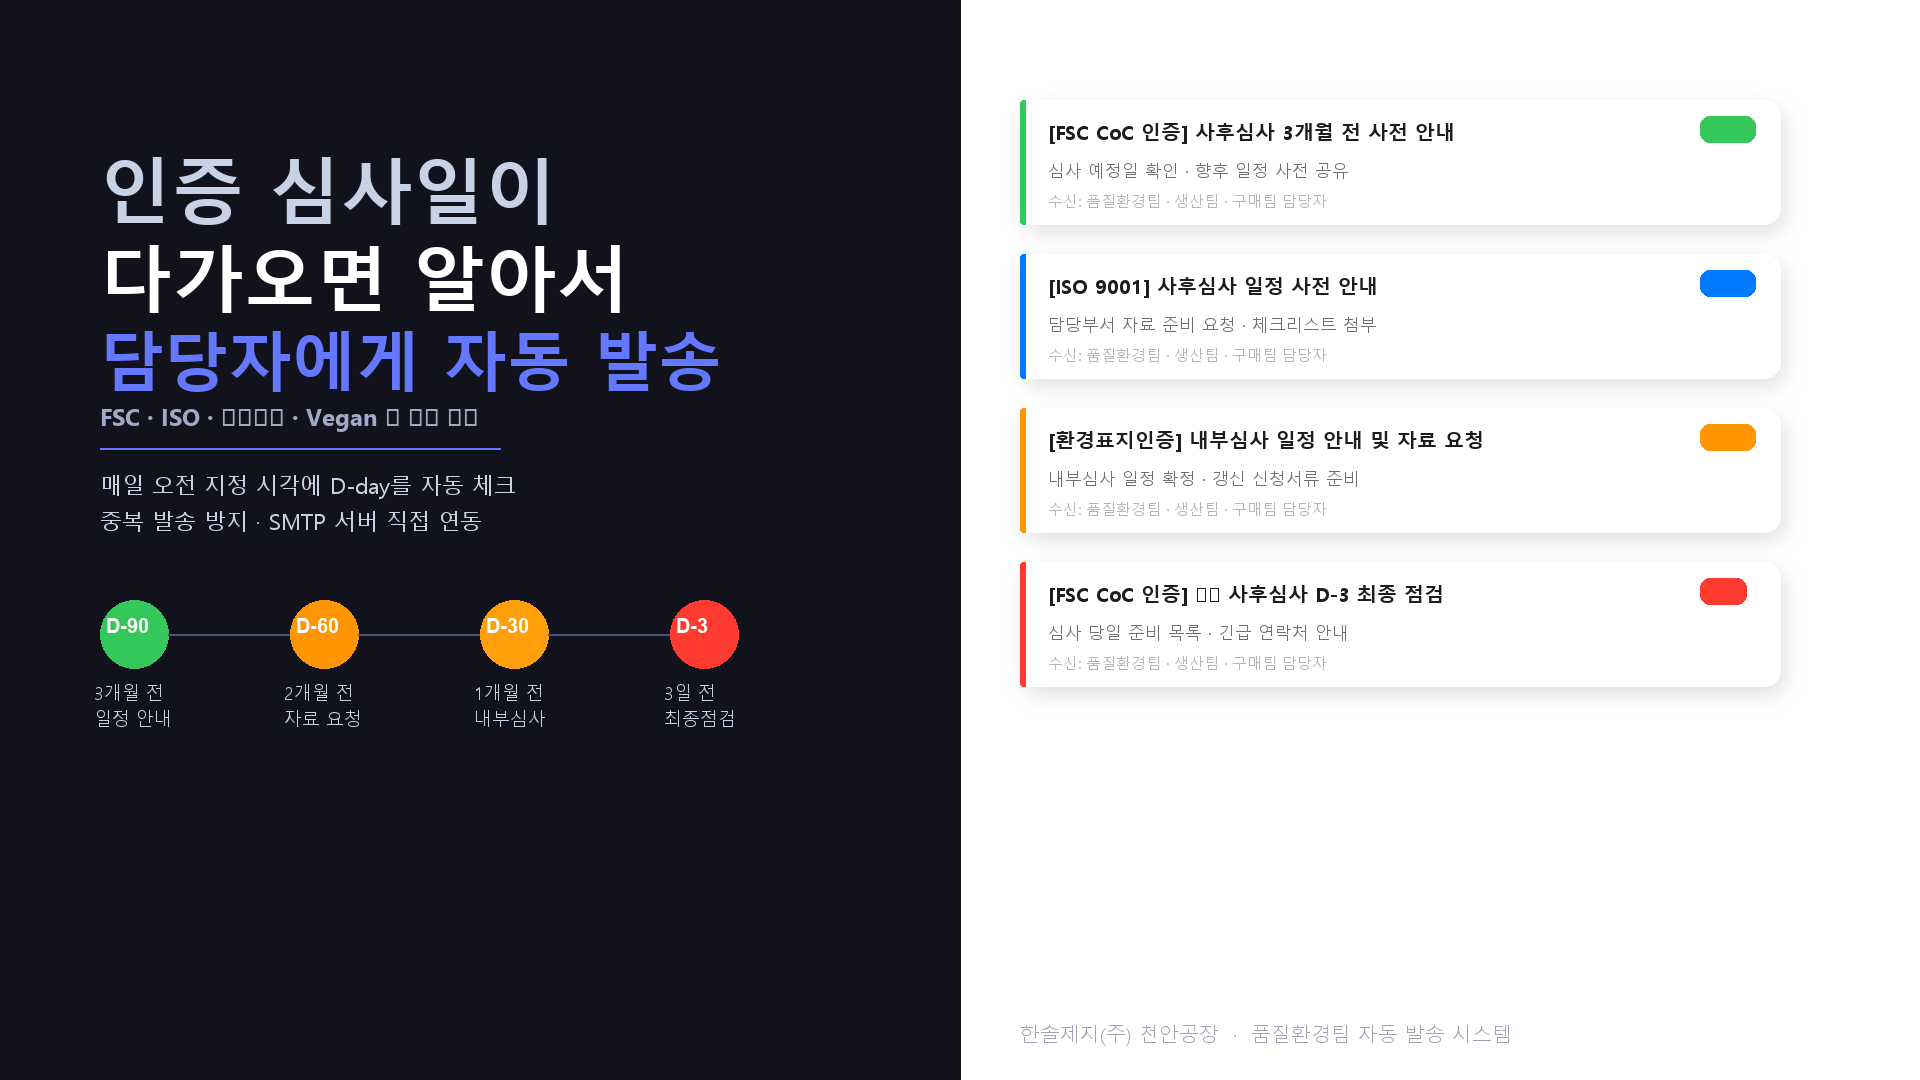
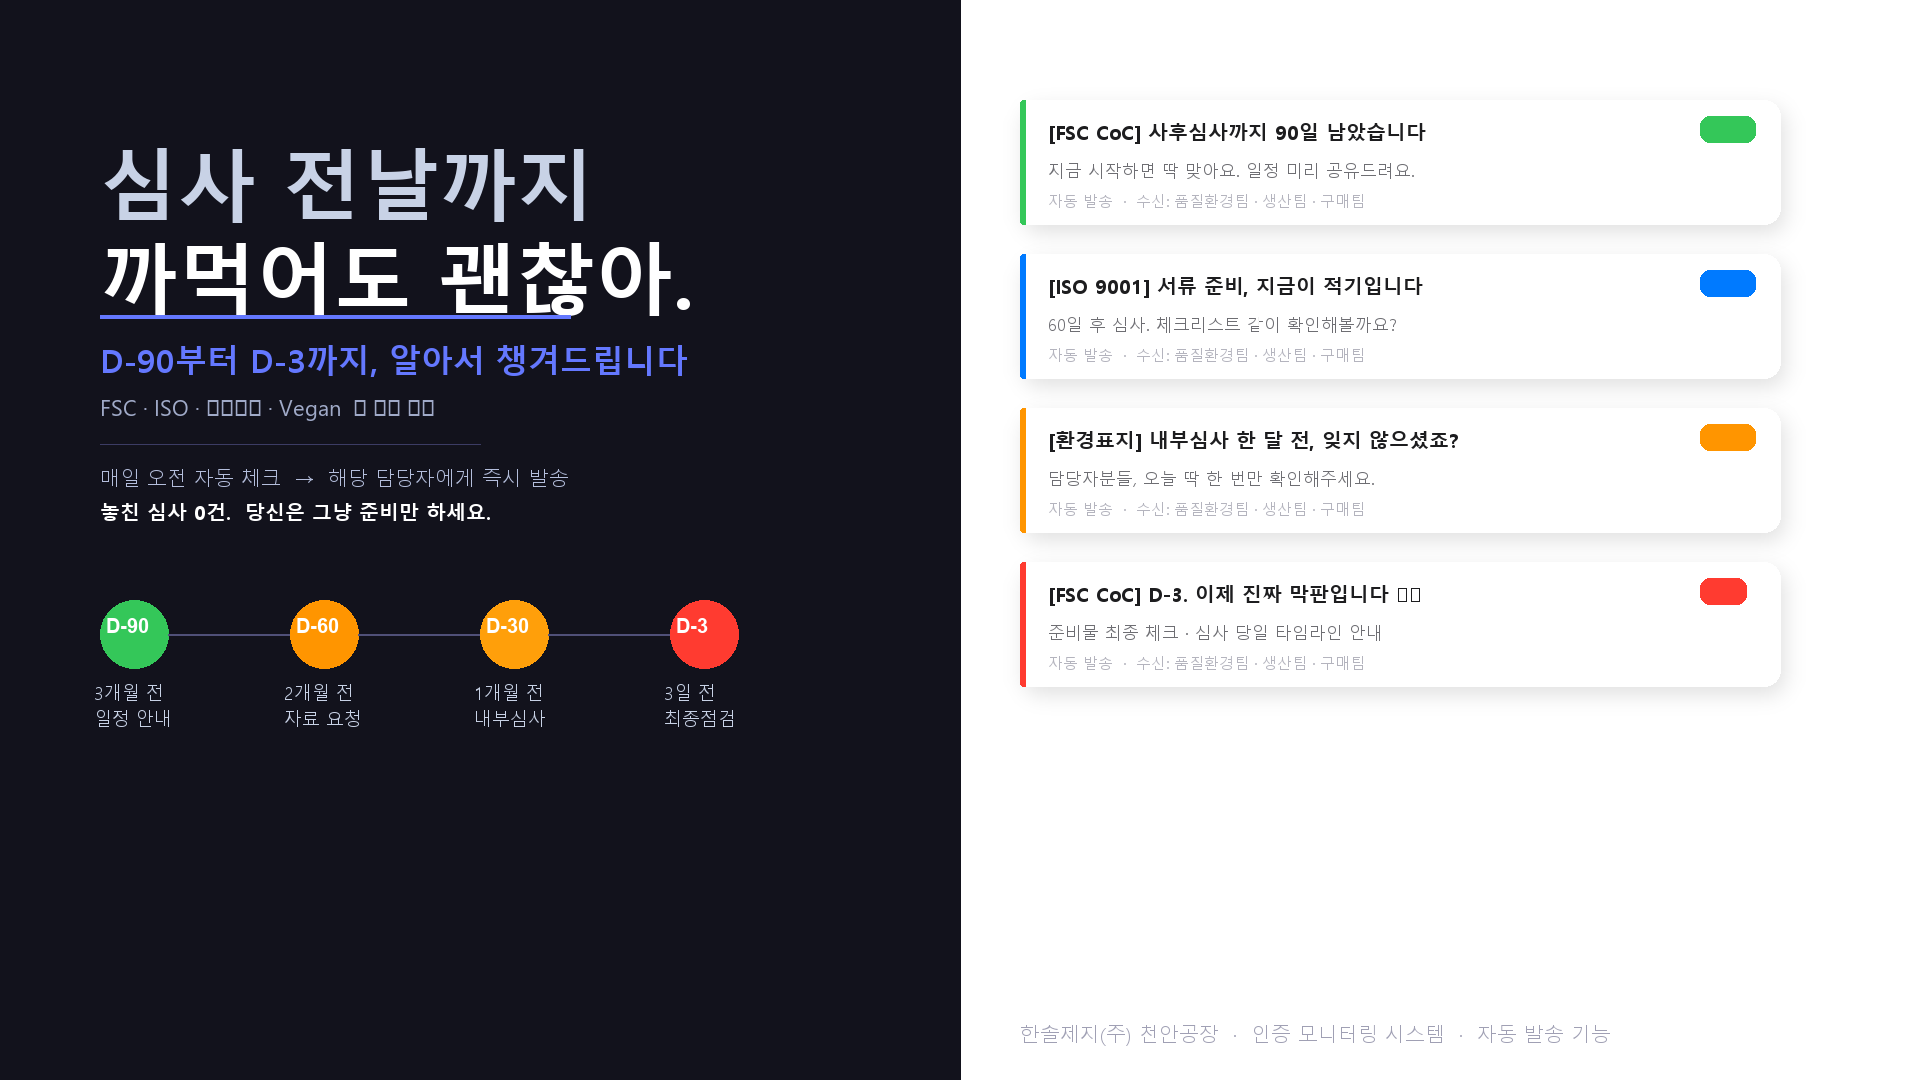
feat: rework thumb3 with punchy ad copy

diff --git a/make_thumbnails.py b/make_thumbnails.py
@@ -257,15 +257,19 @@ def make_thumb3():
     draw.rectangle([0, 0, W//2, H], fill=(18,18,28))
 
     # Left content
-    draw.text((100, 140), "인증 심사일이", font=F("bold_kr",72), fill=(200,210,230))
-    draw.text((100, 228), "다가오면 알아서", font=F("bold_kr",72), fill=(255,255,255))
-    draw.text((100, 316), "담당자에게 자동 발송", font=F("bold_kr",64), fill=(100,120,255))
-    draw.text((100, 400), "FSC · ISO · 환경표지 · Vegan 전 인증 지원", font=F("ui_bold",24), fill=(160,170,200))
+    draw.text((100, 130), "심사 전날까지", font=F("bold_kr",78), fill=(200,210,230))
+    draw.text((100, 224), "까먹어도 괜찮아.", font=F("bold_kr",78), fill=(255,255,255))
 
-    draw.line([(100,448),(500,448)], fill=(100,120,255), width=2)
+    # accent underline
+    draw.line([(100, 316), (570, 316)], fill=(100,120,255), width=4)
 
-    draw.text((100, 470), "매일 오전 지정 시각에 D-day를 자동 체크",   font=F("reg_kr",22), fill=(200,210,230))
-    draw.text((100, 506), "중복 발송 방지 · SMTP 서버 직접 연동",       font=F("reg_kr",22), fill=(200,210,230))
+    draw.text((100, 338), "D-90부터 D-3까지, 알아서 챙겨드립니다", font=F("bold_kr",32), fill=(100,120,255))
+    draw.text((100, 392), "FSC · ISO · 환경표지 · Vegan  전 인증 커버", font=F("ui_reg",22), fill=(160,170,200))
+
+    draw.line([(100,444),(480,444)], fill=(60,60,100), width=1)
+
+    draw.text((100, 464), "매일 오전 자동 체크  →  해당 담당자에게 즉시 발송",   font=F("reg_kr",20), fill=(180,190,220))
+    draw.text((100, 498), "놓친 심사 0건.  당신은 그냥 준비만 하세요.",           font=F("bold_kr",20), fill=(255,255,255))
 
     # Timeline
     stages = [
@@ -288,10 +292,10 @@ def make_thumb3():
     # Right panel - email preview cards (실제 이메일 제목 기반)
     rx = W//2 + 60
     emails = [
-        ("[FSC CoC 인증] 사후심사 3개월 전 사전 안내",    "심사 예정일 확인 · 향후 일정 사전 공유",       "#34C759"),
-        ("[ISO 9001] 사후심사 일정 사전 안내",             "담당부서 자료 준비 요청 · 체크리스트 첨부",    "#007AFF"),
-        ("[환경표지인증] 내부심사 일정 안내 및 자료 요청", "내부심사 일정 확정 · 갱신 신청서류 준비",     "#FF9500"),
-        ("[FSC CoC 인증] ⚠ 사후심사 D-3 최종 점검",     "심사 당일 준비 목록 · 긴급 연락처 안내",       "#FF3B30"),
+        ("[FSC CoC] 사후심사까지 90일 남았습니다",        "지금 시작하면 딱 맞아요. 일정 미리 공유드려요.",  "#34C759"),
+        ("[ISO 9001] 서류 준비, 지금이 적기입니다",        "60일 후 심사. 체크리스트 같이 확인해볼까요?",     "#007AFF"),
+        ("[환경표지] 내부심사 한 달 전, 잊지 않으셨죠?",  "담당자분들, 오늘 딱 한 번만 확인해주세요.",      "#FF9500"),
+        ("[FSC CoC] D-3. 이제 진짜 막판입니다 ⚠",       "준비물 최종 체크 · 심사 당일 타임라인 안내",      "#FF3B30"),
     ]
     ey = 100
     for i, (title, body, color) in enumerate(emails):
@@ -319,11 +323,11 @@ def make_thumb3():
 
         draw.text((rx+28, ey+18), title, font=F("bold_kr",20), fill=(29,29,31))
         draw.text((rx+28, ey+58), body, font=F("reg_kr",17), fill=(110,110,115))
-        draw.text((rx+28, ey+90), "수신: 품질환경팀 · 생산팀 · 구매팀 담당자", font=F("reg_kr",15), fill=(180,180,190))
+        draw.text((rx+28, ey+90), "자동 발송  ·  수신: 품질환경팀 · 생산팀 · 구매팀", font=F("reg_kr",15), fill=(180,180,190))
         ey += 154
 
     # Bottom brand
-    draw.text((rx, H-60), "한솔제지(주) 천안공장  ·  품질환경팀 자동 발송 시스템", font=F("reg_kr",20), fill=(160,160,180))
+    draw.text((rx, H-60), "한솔제지(주) 천안공장  ·  인증 모니터링 시스템  ·  자동 발송 기능", font=F("reg_kr",20), fill=(160,160,180))
 
     img.save(f"{OUT}/thumb3_email.png", "PNG", optimize=True)
     print("thumb3 done")
